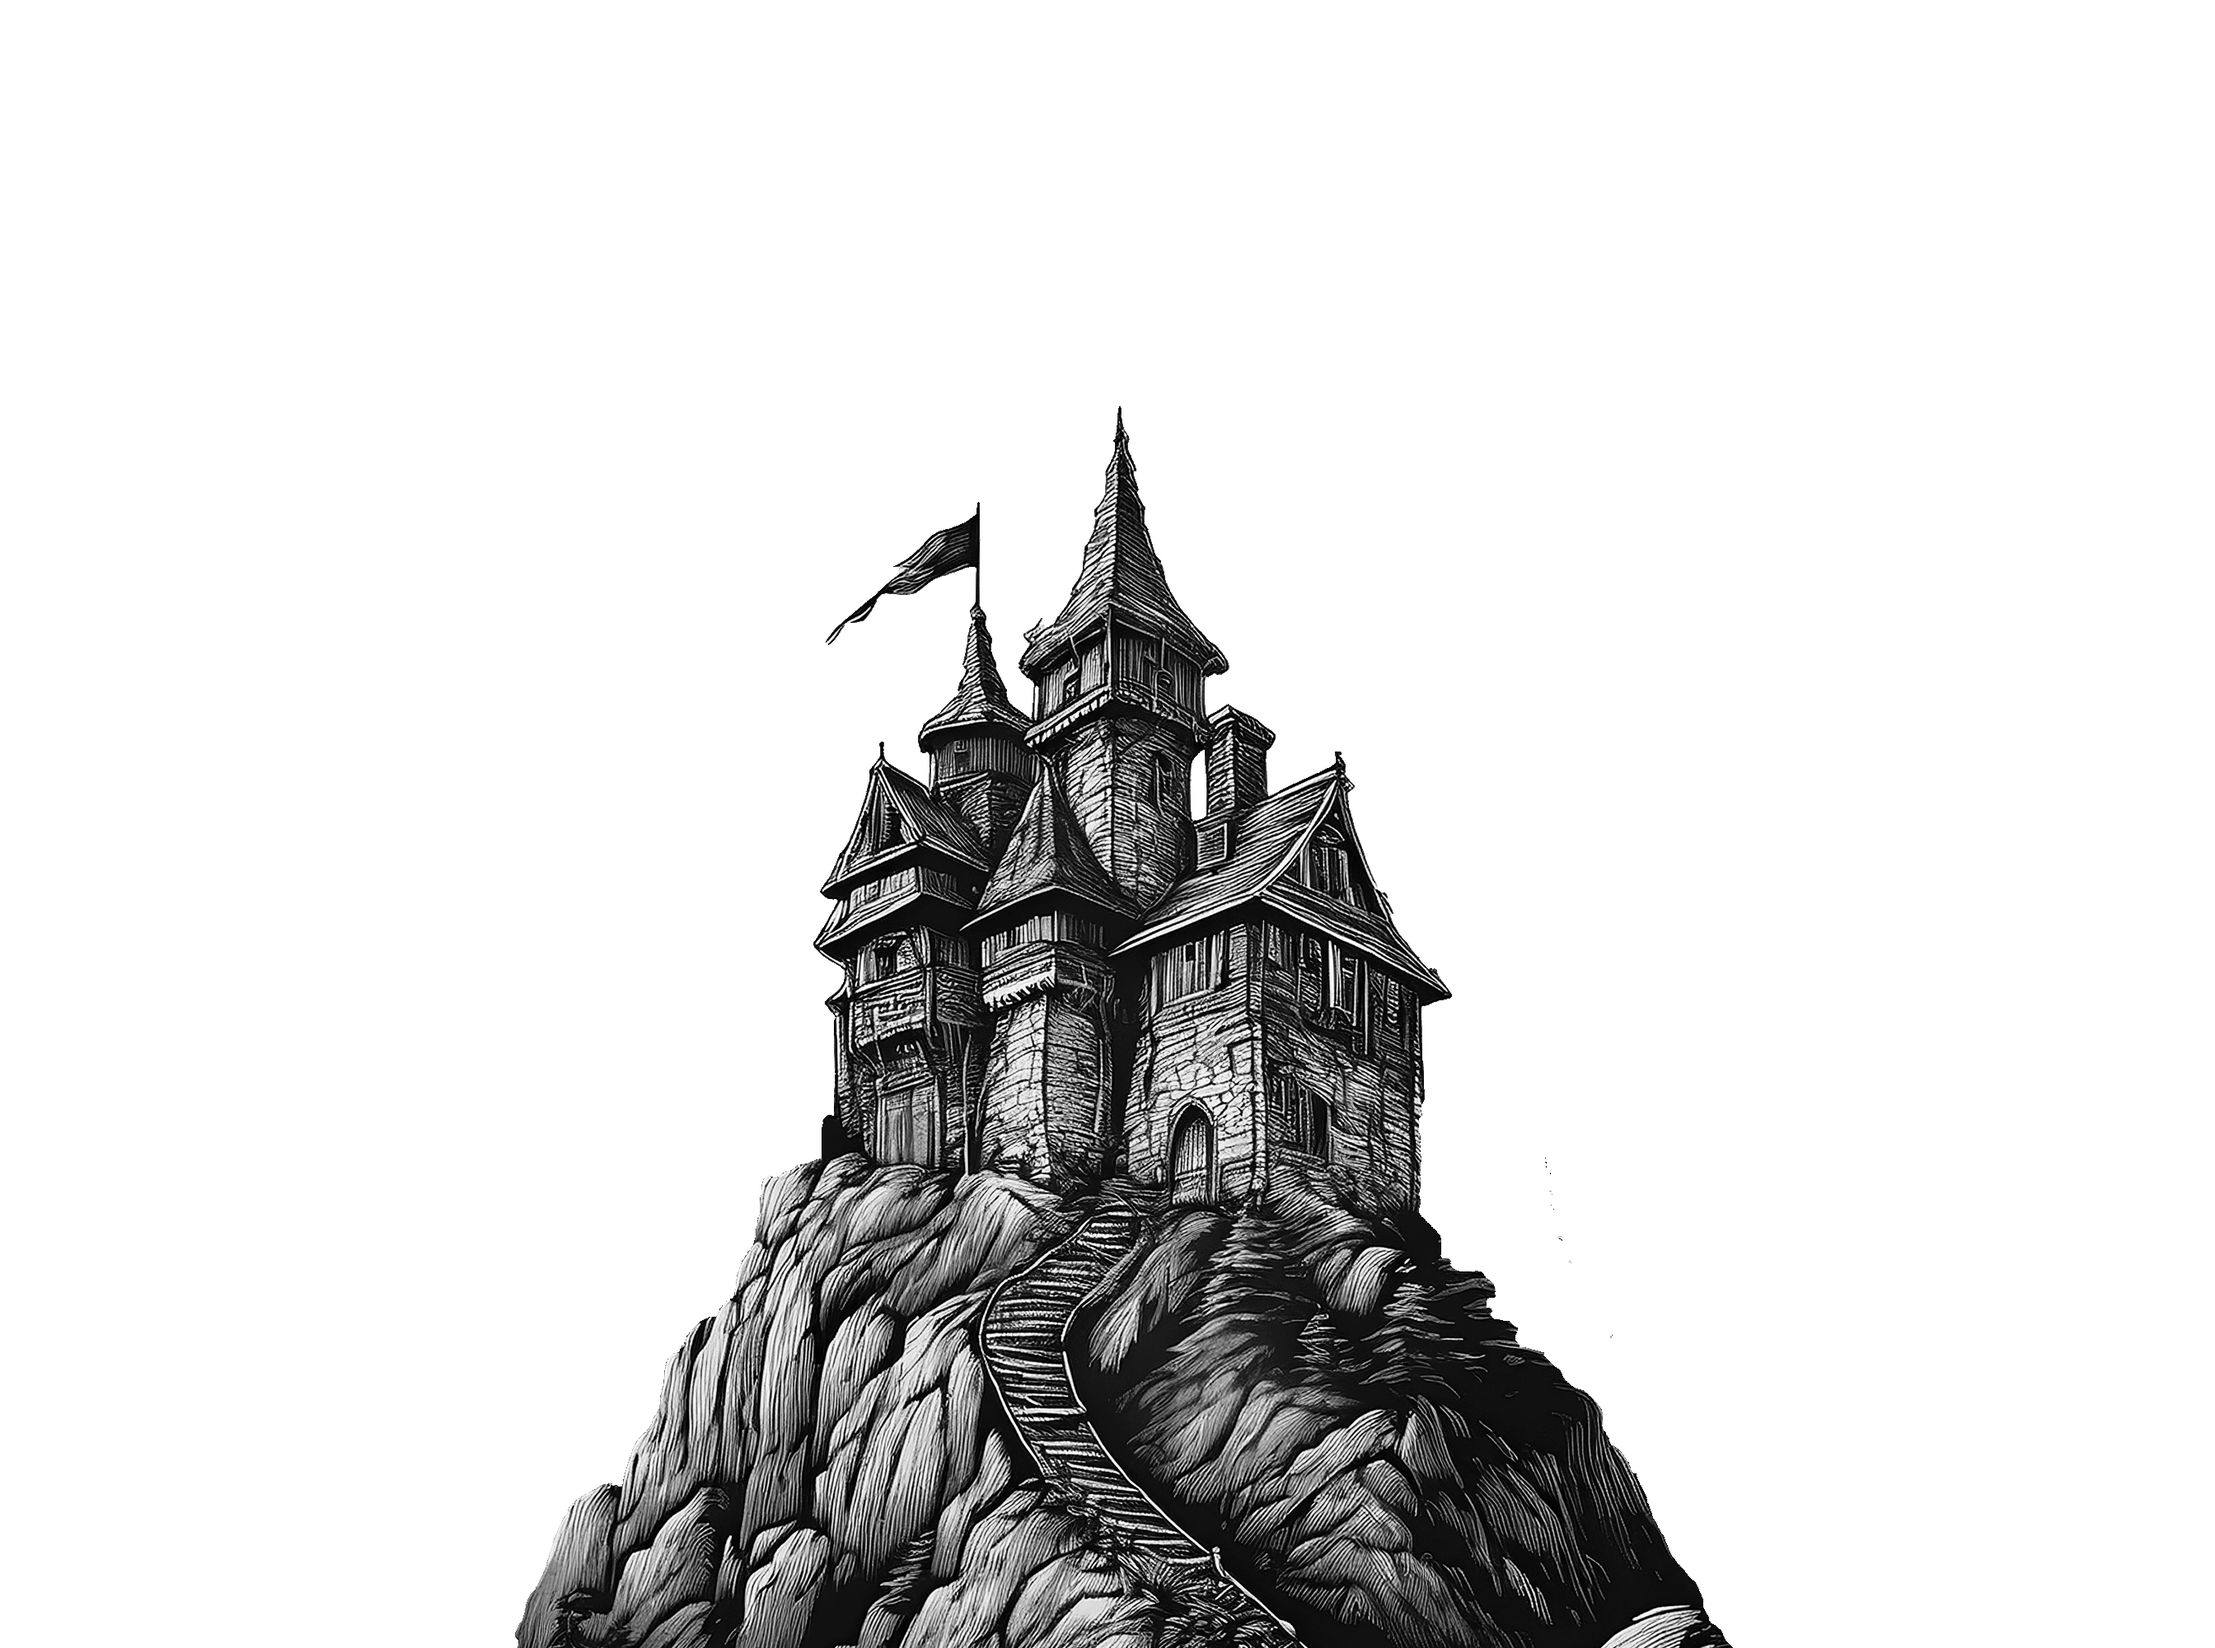
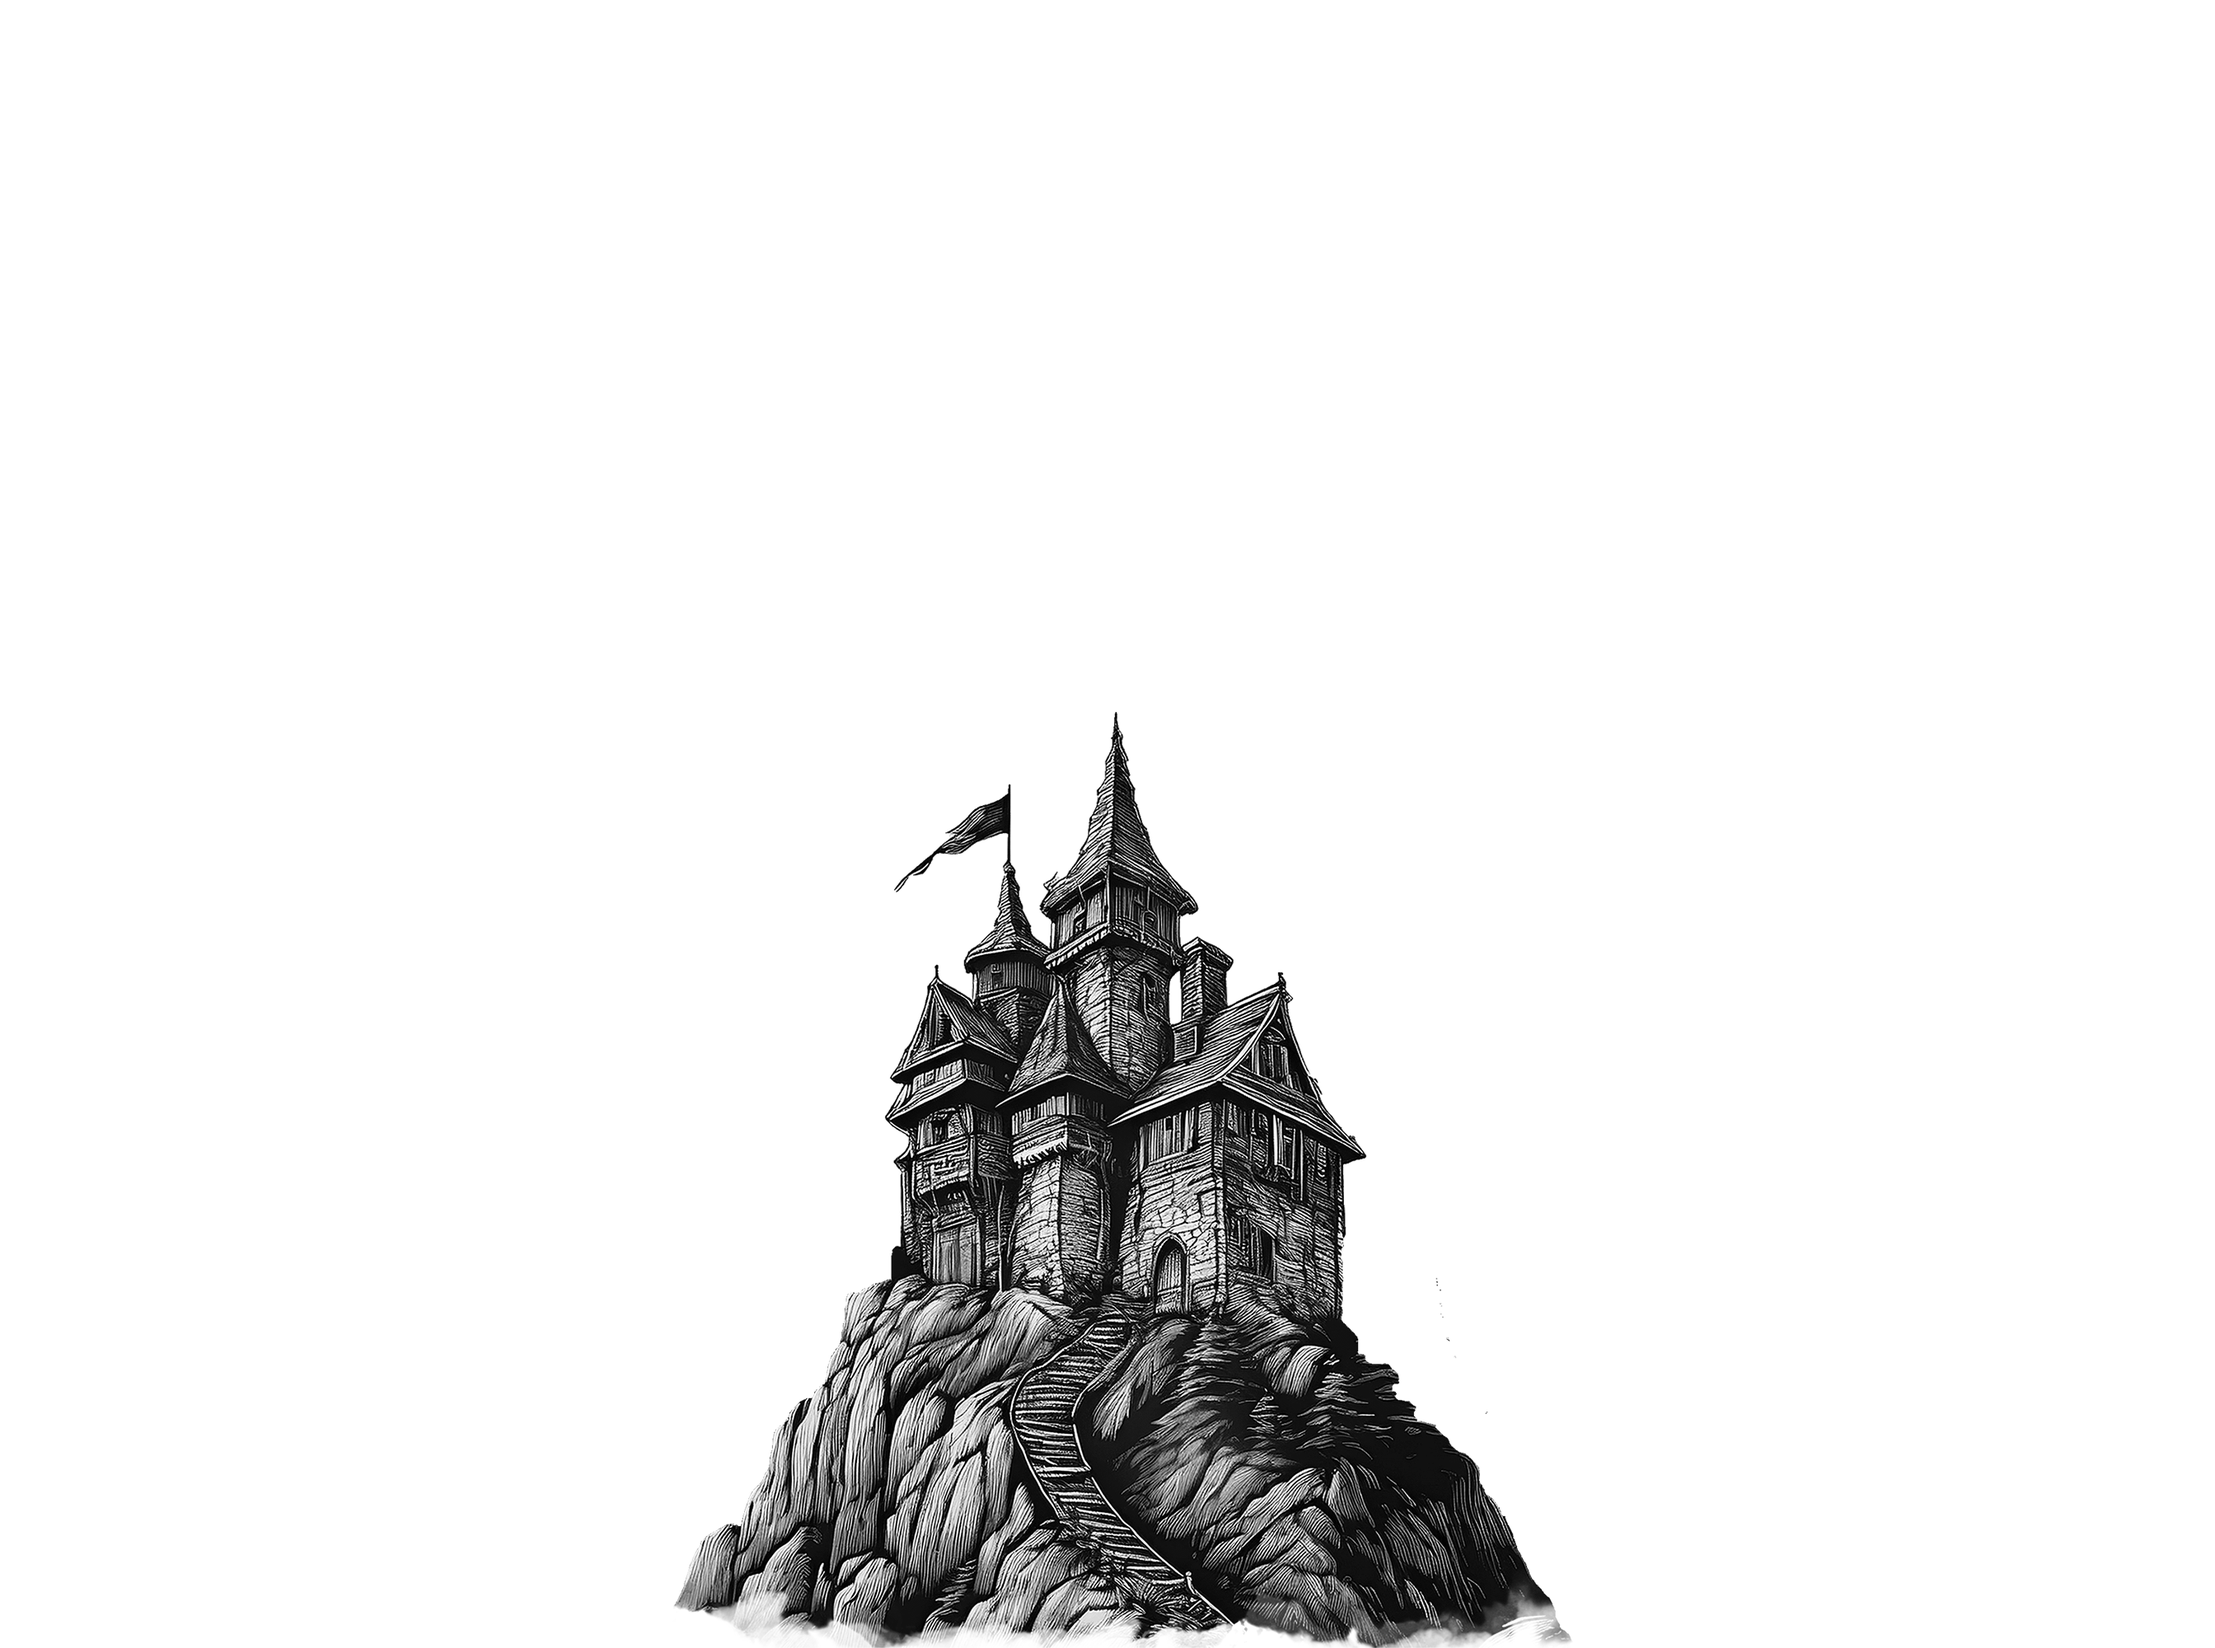
scene 1 gelukt

Changed region(s): [[0.2188, 0.248, 0.7812, 1.0]]

diff --git a/src/parallax/scenes/Scene01.tsx b/src/parallax/scenes/Scene01.tsx
@@ -1,0 +1,55 @@
+import React, { useRef, useState, useLayoutEffect, useEffect } from "react";
+import { motion, useScroll, useTransform, useSpring } from "framer-motion";
+import styles from "../pages/parallax.module.scss";
+
+const Scene01: React.FC = () => {
+	const scrollRef = useRef<HTMLDivElement>(null);
+	const { scrollYProgress } = useScroll({ target: scrollRef, offset: ["start start", "end end"] });
+	const [containerHeight, setContainerHeight] = useState(0);
+
+	useLayoutEffect(() => {
+		if (scrollRef.current) {
+			setContainerHeight(scrollRef.current.clientHeight);
+		}
+	}, []);
+
+	useEffect(() => {
+		scrollYProgress.onChange((v) => console.log("scrollYProgress", v));
+	}, [scrollYProgress]);
+
+	const smoothScrollY = useSpring(scrollYProgress, {
+		stiffness: 50,
+		damping: 20,
+		mass: 1,
+	});
+
+	const skyY = useTransform(smoothScrollY, [0, 1], [0, -100]);
+	const mountainsY = useTransform(smoothScrollY, [0, 1], [150, -500]);
+	const castleY = useTransform(smoothScrollY, [0, 1], [150, -200]);
+	const treesY = useTransform(smoothScrollY, [0, 1], [550, -500]);
+	const containerY = useTransform(smoothScrollY, [0.5, 1], [0, -containerHeight]);
+
+	return (
+		<div ref={scrollRef} className={styles.container}>
+			<motion.div style={{ y: containerY }} className={styles.scene}>
+				<motion.div style={{ y: skyY }} className={styles.layer}>
+					<img src="./scenes/scene01/sky.png" alt="Sky" className={styles.image} />
+				</motion.div>
+
+				<motion.div style={{ y: mountainsY }} className={styles.layer}>
+					<img src="./scenes/scene01/mountain.png" alt="Mountains" className={styles.image} />
+				</motion.div>
+
+				<motion.div style={{ y: castleY }} className={styles.layer}>
+					<img src="./scenes/scene01/castle.png" alt="Castle" className={styles.image} />
+				</motion.div>
+
+				<motion.div style={{ y: treesY }} className={styles.layer}>
+					<img src="./scenes/scene01/tree.png" alt="Trees" className={styles.image} />
+				</motion.div>
+			</motion.div>
+		</div>
+	);
+};
+
+export default Scene01;

diff --git a/src/parallax/pages/parallax.module.scss b/src/parallax/pages/parallax.module.scss
@@ -1,2 +1,28 @@
-.p-parallax {
+.container {
+	position: relative;
+	height: 400vh;
+	overflow: hidden;
+}
+
+.scene {
+	position: absolute;
+	top: 0;
+	left: 0;
+	width: 100%;
+	height: 100%;
+}
+
+.layer {
+	position: absolute;
+	top: 0;
+	left: 0;
+	width: 100%;
+	height: 100vh;
+}
+
+.image {
+	display: block;
+	width: 100%;
+	height: 100%;
+	object-fit: cover;
 }

diff --git a/src/parallax/pages/Parallax.page.tsx b/src/parallax/pages/Parallax.page.tsx
@@ -1,0 +1,9 @@
+import Scene01 from "../scenes/Scene01";
+
+export const Parallax = () => {
+	return (
+		<div style={{ position: "relative" }}>
+			<Scene01 />
+		</div>
+	);
+};

diff --git a/README.md b/README.md
@@ -22,4 +22,4 @@ Live link: [website.be](website.be) (optional)
 - https://stackoverflow.com/questions/9586278/javascript-variable-fallback for the fallback variables in MakingOf.page.tsx
 - https://chatgpt.com/share/682e286b-f388-8003-89e4-9dfad0b85748 for the ScrollToTop.tsx
 - https://stackoverflow.com/questions/72593985/in-react-how-can-i-replace-a-broken-image-with-a-default-image for the default image in MakingOf.page.tsx and SmallStoryCard.tsx
-- 
+- https://chatgpt.com/share/6831e831-5b7c-8001-ae4c-c8f4cafe85ce for the parallax in scene01
